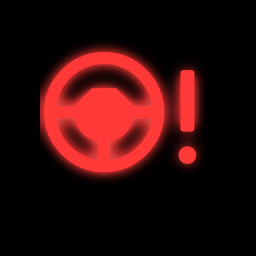
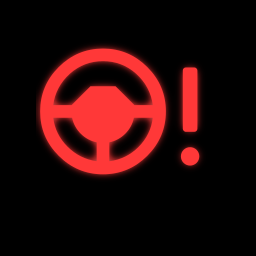
Polish the picker so numbers sit under the lamps, not on them.
Redraw the oil-can, DPF and glow-plug so they read as cluster
telltales, and after a pick show that one lamp so the owner can
confirm the shape.

Changed region(s): [[0.125, 0.1875, 0.7812, 0.7188]]

diff --git a/scripts/compose_cluster.py b/scripts/compose_cluster.py
@@ -45,9 +45,9 @@ BEZEL = (48, 50, 56, 255)
 WELL = (10, 10, 12, 255)
 BG = (18, 18, 22, 255)
 
-W, H = 1760, 900
-CELL = 148
-ICON = 112
+W, H = 1760, 960
+CELL = 164
+ICON = 100
 GAP = 12
 LAMP_PNG = 256
 
@@ -76,14 +76,13 @@ def raster_svg(svg_stem: str, kind: str) -> Image.Image:
     hex_color = RED_HEX if kind == "red" else AMBER_HEX
     svg = (SVG_DIR / f"{svg_stem}.svg").read_text()
     svg = colorize_svg(svg, hex_color)
-    inner = 176
+    inner = 184
     png = cairosvg.svg2png(bytestring=svg.encode("utf-8"), output_width=inner, output_height=inner)
     icon = Image.open(BytesIO(png)).convert("RGBA")
     canvas = Image.new("RGBA", (LAMP_PNG, LAMP_PNG), (0, 0, 0, 255))
-    glow = icon.filter(ImageFilter.GaussianBlur(8))
-    glow = ImageEnhance.Brightness(glow).enhance(2.1)
+    glow = icon.filter(ImageFilter.GaussianBlur(5))
+    glow = ImageEnhance.Brightness(glow).enhance(1.7)
     ox = (LAMP_PNG - inner) // 2
-    canvas.alpha_composite(glow, (ox, ox))
     canvas.alpha_composite(glow, (ox, ox))
     canvas.alpha_composite(icon, (ox, ox))
     return canvas
@@ -114,36 +113,37 @@ def draw_gauge(img: Image.Image, cx: int, cy: int, r: int, label: str) -> None:
 
 def stamp_number(cell: Image.Image, n: int, colour: tuple[int, int, int, int]) -> None:
     d = ImageDraw.Draw(cell)
-    f = font(22, bold=True)
-    d.ellipse((8, 8, 42, 42), fill=(0, 0, 0, 230), outline=colour, width=3)
+    f = font(20, bold=True)
+    cx, cy = CELL / 2, CELL - 22
+    d.ellipse((cx - 16, cy - 16, cx + 16, cy + 16), fill=(0, 0, 0, 230), outline=colour, width=3)
     text = str(n)
     bbox = d.textbbox((0, 0), text, font=f)
     tw, th = bbox[2] - bbox[0], bbox[3] - bbox[1]
-    d.text((25 - tw / 2, 25 - th / 2 - 1), text, font=f, fill=WHITE)
+    d.text((cx - tw / 2, cy - th / 2 - 1), text, font=f, fill=WHITE)
 
 
 def caption(cell: Image.Image, text: str, colour: tuple[int, int, int, int]) -> None:
     d = ImageDraw.Draw(cell)
-    f = font(13, bold=True)
+    f = font(11, bold=True)
     bbox = d.textbbox((0, 0), text, font=f)
     tw = bbox[2] - bbox[0]
-    d.text(((CELL - tw) / 2, CELL - 22), text, font=f, fill=colour)
+    d.text(((CELL - tw) / 2, CELL - 52), text, font=f, fill=colour)
 
 
 def make_cell(n: int, png_name: str, kind: str) -> Image.Image:
     colour = RED if kind == "red" else AMBER
     cell = Image.new("RGBA", (CELL, CELL), (0, 0, 0, 0))
     d = ImageDraw.Draw(cell)
-    rounded_rect(d, (0, 0, CELL - 1, CELL - 1), WELL, 16, outline=(36, 36, 40, 255), width=2)
+    rounded_rect(d, (0, 0, CELL - 1, CELL - 1), WELL, 16, outline=colour, width=2)
     icon = Image.open(ASSETS / png_name).convert("RGBA").resize((ICON, ICON), Image.Resampling.LANCZOS)
     ox = (CELL - ICON) // 2
-    oy = (CELL - ICON) // 2 - 4
+    oy = 6
     cell.alpha_composite(icon, (ox, oy))
-    stamp_number(cell, n, colour)
     if n == 6:
         caption(cell, "STEADY", AMBER)
     elif n == 7:
         caption(cell, "FLASHING", AMBER)
+    stamp_number(cell, n, colour)
     return cell
 
 
@@ -182,8 +182,8 @@ def compose_cluster() -> None:
     bbox = d.textbbox((0, 0), s, font=sub)
     d.text(((W - (bbox[2] - bbox[0])) / 2, 94), s, font=sub, fill=MUTED)
 
-    draw_gauge(img, 148, 430, 100, "RPM")
-    draw_gauge(img, W - 148, 430, 100, "SPEED")
+    draw_gauge(img, 148, 470, 100, "RPM")
+    draw_gauge(img, W - 148, 470, 100, "SPEED")
 
     reds = [x for x in LAMPS if x[3] == "red"]
     ambers = [x for x in LAMPS if x[3] == "amber"]

diff --git a/SKILL.md b/SKILL.md
@@ -47,6 +47,7 @@ Do not start with "what colour is it?". Do not guess the lamp from a vague descr
 - Otherwise follow `references/lamp-picker.md`: **Read** `assets/cluster.png` with the Read tool so the dashboard picture appears in the conversation. Then ask which **number on the picture** is lit. A numbered prose list is not the picker. Markdown `![](…)` is not the picker. If Read fails, use the ASCII cluster in that file — still a drawing, not names.
 - Ask them to reply with the **number printed on the matching lamp**, or an id. If it flashes, they should say flashing.
 - If the reply does not match, say so and show the picture again. **Never force the nearest lamp.**
+- After a pick, **Read** that one lamp PNG (`assets/lamp-0N-….png`) in the same turn as any follow-up questions, so they can confirm the shape. Do not re-show all 13.
 - After a pick, read that id in `references/warning-lights.md` for class, drive advice, owner-safe checks, garage questions, and MOT note.
 - Only ask extra behaviour questions when that id still needs them:
   - `tyre-pressure` — did it flash for about a minute at startup and then stay steady (system fault), or is it simply on (likely low pressure)?

diff --git a/references/lamp-picker.md b/references/lamp-picker.md
@@ -22,6 +22,8 @@ Blue/green lights (main beam, indicators, cruise, fog, engine-cold) are not on t
 
 Accept a number, an id, or "the engine shape, not flashing".
 
+After a number, Read **only** that lamp's PNG (`assets/lamp-01-oil-pressure.png` … `lamp-13-glow-plug.png`) in the same turn, so they can confirm the shape. Do not re-show the whole cluster unless they say it is the wrong one.
+
 - **6 vs 7** (same engine outline): if they have not said steady or flashing, Read `assets/lamp-06-engine-steady.png` and `assets/lamp-07-engine-flashing.png`, and ask only that. 6 is STEADY, 7 is FLASHING.
 - **12**: flashing while driving is normal; steady means off or faulty. Ask only if unclear.
 - **Never** map "a light came on" to a default lamp.

diff --git a/references/examples.md b/references/examples.md
@@ -20,7 +20,7 @@ Owner starts with a plate and no lamp. The agent **shows the cluster picture** b
 
 **Owner:** 6
 
-The agent does not diagnose. It asks only what the menu cannot know, then looks up `{"reg":"AB12CDE"}`.
+**Agent:** Reads `assets/lamp-06-engine-steady.png` so they can confirm the shape. Asks only what the menu cannot know, then looks up `{"reg":"AB12CDE"}`.
 
 **Agent:** When did it start, and has power, noise, smell, smoke, steering or temperature changed?
 
